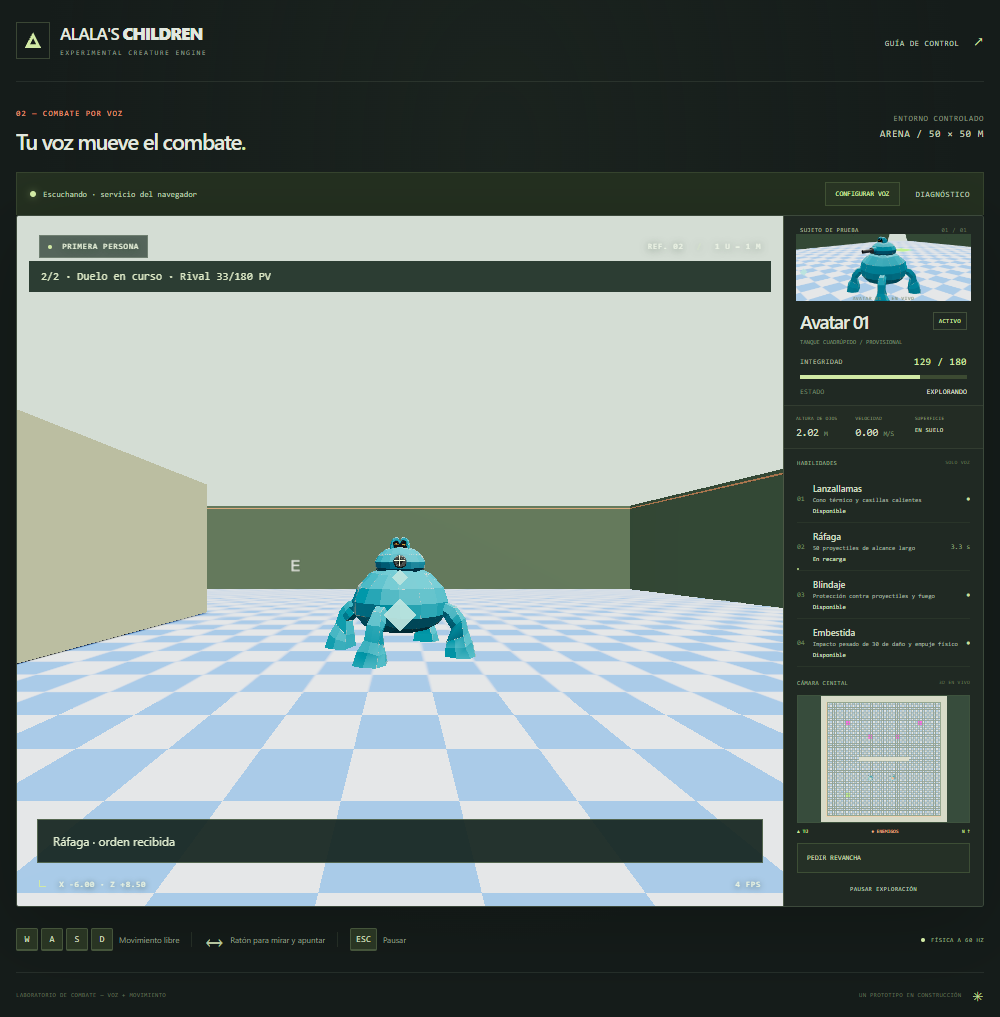
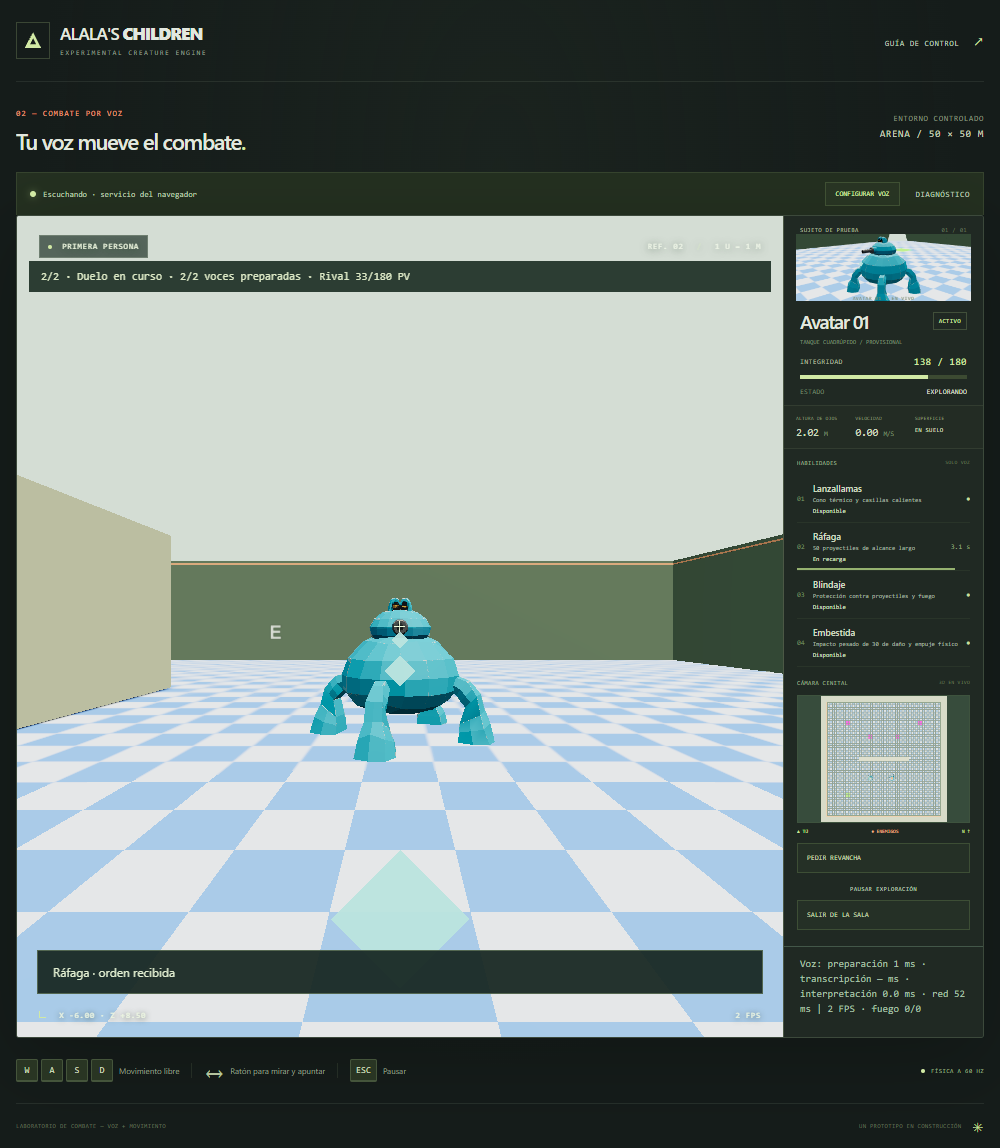
Estabiliza beta PvP: voz preparada, efectos reutilizables y revancha limpia

diff --git a/src/Game.ts b/src/Game.ts
@@ -41,7 +41,8 @@ export async function startCombatDemo(network?: PvpClient): Promise<void> {
   let opponent: CombatRuntime | undefined, opponentView: CombatView | undefined, opponentAnimation: TankAnimation | undefined;
   const spawn = network ? PVP_SPAWNS[network.index] : ARENA.spawn;
   const creature = network ? { ...THERMAL_TANK, id: `P${network.index+1}` } : THERMAL_TANK;
-  let animationFrame = 0, disposed = false, voiceWanted = false, calibrating = false;
+  let animationFrame = 0, disposed = false, voiceWanted = false, calibrating = false, assetsReady=false, micRequestedAt=0;
+  const preparePvp=():void=>{if(network&&assetsReady&&speechState==='listening')network.send({type:'prepared'});};
   const clock = new FixedStep(), fpsCamera = new FirstPersonCamera(THERMAL_TANK);
   const equipped = THERMAL_TANK.abilities.map(abilityById);
   let storage: Storage | undefined; try { storage = localStorage; } catch { /* Private mode can block storage. */ }
@@ -61,10 +62,17 @@ export async function startCombatDemo(network?: PvpClient): Promise<void> {
     : combat?.activate(id, requestId) ?? { accepted: false, reason: 'El motor está cargando.', abilityId: id, startedAt: null });
   const previous = new THREE.Vector3(spawn.x, spawn.y, spawn.z), current = previous.clone(), interpolated = previous.clone();
   const hud = new Hud(root, THERMAL_TANK, { enter: () => { void enter(); }, reset, pause: () => input?.unlock() });
+  const showPvpResult=():void=>{
+    const room=network?.state;if(room?.status!=='finished')return;
+    const label=room.winner==='draw'?'Empate':room.winner===creature.id?'Victoria':'Derrota';
+    document.querySelector('#entry-title')!.textContent=label;
+    document.querySelector('#entry-copy')!.textContent=`Ganador: ${room.winner??'empate'}. Solicita la revancha desde el panel lateral o sal de la sala.`;
+    const button=document.querySelector<HTMLButtonElement>('#enter')!;button.disabled=true;button.textContent='ESPERANDO REVANCHA';
+  };
   const combatHud = new CombatHud(root, THERMAL_TANK, {
     pause: () => input?.unlock(),
     volume: value => audioOutput.setVolume(value),
-    enable: () => { voiceWanted = true; calibrating = false; calibration.cancel(); startVoice(); },
+    enable: () => { voiceWanted = true;micRequestedAt=performance.now();calibrating = false; calibration.cancel(); startVoice(); },
     disable: () => { voiceWanted = false; calibrating = false; calibration.cancel(); speech.stop(); pipeline.clearPending(); },
     install: () => { void browserSpeech.installLocal(combatHud.settings().language).then(ok => hud.notify(ok ? 'Idioma local instalado. Puedes activarlo.' : 'No se pudo instalar el idioma.')).catch(error => hud.notify(String(error))); },
     trial: expected => {
@@ -86,7 +94,7 @@ export async function startCombatDemo(network?: PvpClient): Promise<void> {
   });
 
   for (const port of [browserSpeech, localSpeech]) {
-    port.onStatus = status => { if (speech === port) { speechState = status.state; combatHud.recognition(status); } };
+    port.onStatus = status => { if (speech === port) { speechState = status.state; combatHud.recognition(status);if(status.state==='listening'){const display=document.querySelector<HTMLElement>('#pvp-state');if(display&&micRequestedAt)display.dataset.micInitMs=String(Math.round(performance.now()-micRequestedAt));preparePvp();} } };
     port.onTranscript = transcript => {
       if (speech !== port) return;
       combatHud.preview(transcript.text);
@@ -103,6 +111,8 @@ export async function startCombatDemo(network?: PvpClient): Promise<void> {
   const announced = new Set<string>();
   pipeline.onRecord = record => {
     combatHud.record(record, pipeline.accepted, pipeline.rejected);
+    const display=document.querySelector<HTMLElement>('#pvp-state');
+    if(display){display.dataset.interpretationMs=record.interpretationMs.toFixed(1);if(record.speechStartedAt!==null)display.dataset.transcriptionMs=String(Math.round(record.transcriptReceivedAt-record.speechStartedAt));}
     if (record.status === 'accepted' && record.abilityId && !announced.has(record.id)) { announced.add(record.id); if (announced.size > 300) announced.delete(announced.values().next().value!); hud.notify(`${abilityById(record.abilityId).name} · orden recibida`); }
   };
   calibration.onTrial = trial => combatHud.trialResult(trial, calibration.trials.length);
@@ -121,6 +131,7 @@ export async function startCombatDemo(network?: PvpClient): Promise<void> {
 
   async function enter(): Promise<void> {
     if (!input || !motor) return;
+    if(network&&(!voiceWanted||speechState!=='listening')){hud.notify('Prepara VoiceAttack y espera a «Escuchando» antes de entrar al PvP.');return;}
     audioOutput.unlock(); flameAudio.prepare(); footsteps?.prepare(); landingAudio?.prepare();
     // A calibration utterance must never spill into live combat. Keep the loaded model,
     // but start a fresh input/recognizer session when crossing this boundary.
@@ -171,16 +182,25 @@ export async function startCombatDemo(network?: PvpClient): Promise<void> {
       const status=document.createElement('div');status.className='pvp-status';status.id='pvp-state';
       document.querySelector('.viewport')!.prepend(status);
       network.onNotice=message=>hud.notify(message);
+      network.onAck=(elapsedMs,accepted)=>{status.dataset.ackMs=String(elapsedMs);status.dataset.lastAckAccepted=String(accepted);};
       let previousStatus='';
       network.onState=room=>{
         status.dataset.status=room.status;status.dataset.round=String(room.round);
         status.dataset.health=String(room.actors[network.index].health);status.dataset.enemyHealth=String(room.actors[1-network.index].health);
         const label={waiting:'Esperando que ambos entren',playing:'Duelo en curso',finished:room.winner==='draw'?'Empate':room.winner===creature.id?'Victoria':'Derrota',disconnected:'Rival desconectado · partida detenida'}[room.status];
-        status.textContent=`${room.connected.filter(Boolean).length}/2 · ${label} · Rival ${Math.ceil(room.actors[1-network.index].health)}/180 PV`;
-        if(room.status==='finished' && previousStatus!=='finished'){input?.unlock();hud.notify(`${label}. Ambos pueden pedir revancha.`);}
+      status.textContent=`${room.connected.filter(Boolean).length}/2 · ${label} · ${room.prepared.filter(Boolean).length}/2 voces preparadas · Rival ${Math.ceil(room.actors[1-network.index].health)}/180 PV${room.status==='finished'?` · Ganador ${room.winner??'empate'} · Revancha ${room.rematch.filter(Boolean).length}/2`:''}`;
+        if(room.status==='finished' && previousStatus!=='finished'){
+          input?.unlock();hud.notify(`${label}. Ambos pueden pedir revancha.`);
+          showPvpResult();
+        }
+        if(room.status==='playing'&&previousStatus==='finished'){
+          const enterButton=document.querySelector<HTMLButtonElement>('#enter')!;enterButton.disabled=false;
+          hud.state(state.value);hud.notify('Nueva ronda preparada. Reactiva la voz y entra en la arena.');
+        }
         previousStatus=room.status;
       };
     }
+    if(network){const metrics=document.createElement('p');metrics.id='pvp-metrics';metrics.className='pvp-metrics';metrics.textContent='Voz: preparación — · transcripción — · interpretación — · red —';document.querySelector('.side-panel')!.append(metrics);const leave=document.createElement('button');leave.id='leave-room';leave.className='secondary-button';leave.textContent='SALIR DE LA SALA';document.querySelector('.panel-bottom')!.append(leave);leave.onclick=()=>{location.href='/';};}
     combat.onDefeated = () => { input?.unlock(); hud.notify('Sin integridad. Pulsa Reiniciar posición para preparar otra prueba.'); };
     const avatar = await createAvatarView(THERMAL_TANK); if (disposed) return;
     animation = new TankAnimation(avatar, THERMAL_TANK.movement.turnSpeed);
@@ -206,15 +226,16 @@ export async function startCombatDemo(network?: PvpClient): Promise<void> {
         if (motor) { previous.set(motor.feet.x, motor.feet.y, motor.feet.z); current.copy(previous); }
       } else { calibrating = false; calibration.cancel(); startVoice(); }
       hud.state(state.value);
+      if(!locked)showPvpResult();
     }, message => hud.notify(message));
-    hud.ready(); fpsCamera.update(motor.feet);
+    assetsReady=true;preparePvp();hud.ready(); fpsCamera.update(motor.feet);
     let last = performance.now(), uiTime = 0, fpsTime = 0, fpsFrames = 0, displayFps = 0, lastDraw = -Infinity;
     const render = (time: number): void => {
       if (disposed || !view || !physics || !motor || !input || !combat) return;
       const frame = Math.max(0, (time - last) / 1000); last = time; fpsTime += frame;
       if(network && opponent){
         const fresh=network.apply(frame,combat,opponent);
-        if(fresh){fpsCamera.yaw=network.state!.actors[network.index].input.yaw;fpsCamera.pitch=0;animation?.reset();opponentAnimation?.reset();landing?.reset();}
+        if(fresh){fpsCamera.yaw=network.state!.actors[network.index].input.yaw;fpsCamera.pitch=0;animation?.reset();opponentAnimation?.reset();landing?.reset();flameAudio.reset();combatCueAudio.reset();footsteps?.silence();landingAudio?.silence();clock.reset();previous.set(motor.feet.x,motor.feet.y,motor.feet.z);current.copy(previous);}
         network.input({...input.movement(),yaw:fpsCamera.yaw,pitch:fpsCamera.pitch,active:state.value==='playing'});
         const remote=network.state?.actors[1-network.index];
         if(remote)opponentAnimation?.update(Math.min(frame,.1),opponent.motor!.feet,{...remote.input,aimYaw:remote.input.yaw,velocity:remote.velocity,grounded:remote.grounded,
@@ -257,7 +278,7 @@ export async function startCombatDemo(network?: PvpClient): Promise<void> {
         animation?.update(Math.min(frame, 0.1), motor.feet, { velocity: { x: 0, y: 0, z: 0 }, forward: 0, right: 0,
           aimYaw: fpsCamera.yaw, grounded: true, suspended: false });
       }
-      if (state.value === 'playing' || state.value === 'ready' || time - lastDraw >= 250) {
+      if (state.value === 'playing' || state.value === 'ready' || time - lastDraw >= (network && network.state?.status==='finished' ? 50 : 250)) {
         combatView?.update(); opponentView?.update(); view.render(state.value === 'ready' ? view.overview : fpsCamera.camera);
         avatarPreview?.render(time);
         minimap?.render(time, motor.feet, fpsCamera.yaw); fpsFrames++; lastDraw = time;
@@ -265,7 +286,7 @@ export async function startCombatDemo(network?: PvpClient): Promise<void> {
       calibration.expire(time);
       flameAudio.sync(combat.abilities.active('flamethrower'), state.value === 'playing');
       combatCueAudio.sync(state.value === 'playing', combat.barrageShotsFired, combat.abilities.active('charge'), combat.abilities.elapsed('charge'), abilityById('charge').windup ?? 0, combat.impactCount);
-      if (time - uiTime > 100) { hud.telemetry(motor.feet, Math.hypot(motor.actualVelocity.x, motor.actualVelocity.z), motor.grounded, displayFps, fpsCamera.yaw); combatHud.update(combat); uiTime = time; }
+      if (time - uiTime > 100) { hud.telemetry(motor.feet, Math.hypot(motor.actualVelocity.x, motor.actualVelocity.z), motor.grounded, displayFps, fpsCamera.yaw); combatHud.update(combat);const metrics=document.querySelector<HTMLElement>('#pvp-state');if(metrics){metrics.dataset.frameMs=(frame*1000).toFixed(1);metrics.dataset.fps=String(Math.round(displayFps));metrics.dataset.flameParticles=String(combatView?.flameParticles??0);metrics.dataset.enemyFlameParticles=String(opponentView?.flameParticles??0);metrics.dataset.projectiles=String(combat.barrageProjectiles.length);metrics.dataset.enemyProjectiles=String(opponent?.barrageProjectiles.length??0);document.querySelector('#pvp-metrics')!.textContent=`Voz: preparación ${metrics.dataset.micInitMs??'—'} ms · transcripción ${metrics.dataset.transcriptionMs??'—'} ms · interpretación ${metrics.dataset.interpretationMs??'—'} ms · red ${metrics.dataset.ackMs??'—'} ms | ${Math.round(displayFps)} FPS · fuego ${metrics.dataset.flameParticles}/${metrics.dataset.enemyFlameParticles}`;}uiTime = time; }
       animationFrame = requestAnimationFrame(render);
     };
     animationFrame = requestAnimationFrame(render);

diff --git a/src/attacks/barrage/behavior.ts b/src/attacks/barrage/behavior.ts
@@ -13,6 +13,9 @@ const angle = (a: Vec3, b: Vec3): number => Math.acos(Math.max(-1, Math.min(1, d
 /** Deterministic fixed-step volley. Each shot has one immutable launch direction. */
 export function createBarrage(context: AttackContext): AttackBehavior {
   const projectiles: Projectile[] = [], impacts: ImpactView[] = [];
+  const freeProjectiles:Projectile[]=Array.from({length:BARRAGE.projectileCount!},()=>({position:{x:0,y:0,z:0},direction:{x:0,y:0,z:0},travelled:0,active:false}));
+  const freeImpacts:ImpactView[]=Array.from({length:BARRAGE.projectileCount!},()=>({position:{x:0,y:0,z:0},age:0}));
+  const release=():void=>{for(const shot of projectiles)freeProjectiles.push(shot);projectiles.length=0;for(const hit of impacts)freeImpacts.push(hit);impacts.length=0;};
   let shotsFired = 0, locked: string | null = null;
   const select = (origin: Vec3, direction: Vec3): TestTarget | null => {
     const valid = (target: TestTarget): boolean => {
@@ -37,12 +40,13 @@ export function createBarrage(context: AttackContext): AttackBehavior {
       const fraction = error > 1e-6 ? correction / error : 0;
       direction = unit({ x: aim.x * (1 - fraction) + desired.x * fraction, y: aim.y * (1 - fraction) + desired.y * fraction, z: aim.z * (1 - fraction) + desired.z * fraction });
     }
-    projectiles.push({ position: origin, direction, travelled: 0, active: true });
+    const shot=freeProjectiles.pop();
+    if(shot){shot.position.x=origin.x;shot.position.y=origin.y;shot.position.z=origin.z;shot.direction.x=direction.x;shot.direction.y=direction.y;shot.direction.z=direction.z;shot.travelled=0;shot.active=true;projectiles.push(shot);}
     shotsFired++;
   };
   return {
     get projectiles() { return projectiles; }, get impacts() { return impacts; }, get shotsFired() { return shotsFired; },
-    onActivate() { projectiles.length = 0; impacts.length = 0; shotsFired = 0; locked = null; },
+    onActivate() { release(); shotsFired = 0; locked = null; },
     afterPhysics(dt) {
       const activeTime = context.abilities.overlap(BARRAGE.id, dt);
       const elapsed = context.abilities.elapsed(BARRAGE.id);
@@ -64,15 +68,18 @@ export function createBarrage(context: AttackContext): AttackBehavior {
           const lateral = Math.hypot(dx - along * projectile.direction.x, dy - along * projectile.direction.y, dz - along * projectile.direction.z);
           if (lateral <= (target.radius ?? COMBAT.targetRadius) + 0.12) { hit = target; hitDistance = along; }
         }
-        projectile.position = { x: projectile.position.x + projectile.direction.x * hitDistance, y: projectile.position.y + projectile.direction.y * hitDistance, z: projectile.position.z + projectile.direction.z * hitDistance };
+        projectile.position.x += projectile.direction.x * hitDistance;projectile.position.y += projectile.direction.y * hitDistance;projectile.position.z += projectile.direction.z * hitDistance;
         projectile.travelled += hitDistance;
-        if (hit) { context.damageTarget(hit, BARRAGE.damage, 'projectile'); projectile.active = false; impacts.push({ position: { ...projectile.position }, age: 0 }); }
-        else if (hitWall || projectile.travelled >= BARRAGE.range - 1e-6) { projectile.active = false; impacts.push({ position: { ...projectile.position }, age: 0 }); }
+        if (hit || hitWall || projectile.travelled >= BARRAGE.range - 1e-6) {
+          if(hit)context.damageTarget(hit,BARRAGE.damage,'projectile');
+          projectile.active=false;
+          const flash=freeImpacts.pop();if(flash){flash.position.x=projectile.position.x;flash.position.y=projectile.position.y;flash.position.z=projectile.position.z;flash.age=0;impacts.push(flash);}
+        }
       }
       for (const impact of impacts) impact.age += dt;
-      for (let i = impacts.length - 1; i >= 0; i--) if (impacts[i].age > 0.18) impacts.splice(i, 1);
-      for (let i = projectiles.length - 1; i >= 0; i--) if (!projectiles[i].active) projectiles.splice(i, 1);
+      for (let i = impacts.length - 1; i >= 0; i--) if (impacts[i].age > 0.18) freeImpacts.push(impacts.splice(i, 1)[0]);
+      for (let i = projectiles.length - 1; i >= 0; i--) if (!projectiles[i].active) freeProjectiles.push(projectiles.splice(i, 1)[0]);
     },
-    reset() { projectiles.length = 0; impacts.length = 0; shotsFired = 0; locked = null; },
+    reset() { release(); shotsFired = 0; locked = null; },
   };
 }

diff --git a/tests/pvp.test.ts b/tests/pvp.test.ts
@@ -2,11 +2,11 @@ import { beforeAll, describe, expect, it } from 'vitest';
 import { initializePhysics } from '../src/physics/PhysicsWorld';
 import { Duel } from '../src/network/Duel';
 beforeAll(initializePhysics);
-function match():Duel{const duel=new Duel('test');duel.connected.fill(true);duel.select(0);duel.select(1);duel.enter(0);duel.enter(1);return duel;}
+function match():Duel{const duel=new Duel('test');duel.connected.fill(true);duel.select(0);duel.select(1);duel.prepare(0);duel.prepare(1);duel.enter(0);duel.enter(1);return duel;}
 const step=(duel:Duel,n:number)=>{for(let i=0;i<n;i++)duel.step(1/60);};
 describe('duelo autoritativo con las habilidades originales',()=>{
  it('exige selección y entrada de ambos, congela al desconectar y coordina revancha',()=>{
-  const d=new Duel('room');d.connected.fill(true);d.select(0);d.enter(0);expect(d.status).toBe('waiting');d.select(1);d.enter(1);expect(d.status).toBe('playing');
+  const d=new Duel('room');d.connected.fill(true);d.select(0);d.enter(0);expect(d.status).toBe('waiting');d.select(1);d.enter(1);expect(d.status).toBe('waiting');d.prepare(0);expect(d.status).toBe('waiting');d.prepare(1);expect(d.status).toBe('playing');
   step(d,30);const time=d.actors[0].abilities.time;d.connected[1]=false;step(d,30);expect(d.status).toBe('disconnected');expect(d.actors[0].abilities.time).toBe(time);
   d.connected[1]=true;d.actors[1].health=0;step(d,1);expect(d.winner).toBe('P1');d.vote(0);expect(d.status).toBe('finished');d.vote(1);expect(d.status).toBe('playing');expect(d.actors[1].health).toBe(180);expect(d.round).toBe(2);d.dispose();
  });
@@ -25,5 +25,22 @@ describe('duelo autoritativo con las habilidades originales',()=>{
  });
  it('Embestida causa daño y transfiere impulso entre dos tanques de 500 kg',()=>{
   const d=match();step(d,20);d.attack(0,'charge','impact');step(d,220);expect(d.actors[1].health).toBe(150);expect(d.actors[0].impactCount).toBe(1);expect(d.actors[1].motor!.feet.x).toBeGreaterThan(6.5);d.dispose();
+ });
+ it('dos Lanzallamas simultáneos y varias rondas limpian calor, recargas y proyectiles',()=>{
+  const d=match();
+  expect(d.attack(0,'flamethrower','fire-1').accepted).toBe(true);
+  expect(d.attack(1,'flamethrower','fire-2').accepted).toBe(true);
+  step(d,40);
+  expect(d.snapshot().actors.every(actor=>actor.heat.length>0)).toBe(true);
+  d.actors[1].health=0;step(d,1);
+  expect(d.status).toBe('finished');
+  expect(d.snapshot().actors.every(actor=>actor.heat.length===0&&actor.projectiles.length===0)).toBe(true);
+  const time=d.actors[0].abilities.time;step(d,90);expect(d.actors[0].abilities.time).toBe(time);
+  d.vote(0);d.vote(1);
+  expect(d.round).toBe(2);expect(d.snapshot().actors.every(actor=>actor.health===180&&actor.heat.length===0)).toBe(true);
+  expect(d.attack(0,'barrage','round-2').accepted).toBe(true);step(d,10);
+  d.actors[0].health=0;step(d,1);d.vote(0);d.vote(1);
+  expect(d.round).toBe(3);expect(d.snapshot().actors.every(actor=>actor.projectiles.length===0&&actor.shots===0)).toBe(true);
+  d.dispose();
  });
 });

diff --git a/src/network/Duel.ts b/src/network/Duel.ts
@@ -11,7 +11,7 @@ export class Duel {
   readonly physics: PhysicsWorld;
   readonly actors: CombatRuntime[];
   readonly inputs: PlayerCommand[] = PVP_YAWS.map(yaw=>({forward:0,right:0,yaw,pitch:0,active:false}));
-  readonly connected = [false,false]; readonly ready = [false,false]; readonly rematch = [false,false];
+  readonly connected = [false,false]; readonly ready = [false,false]; readonly prepared = [false,false]; readonly rematch = [false,false];
   readonly entered = [false,false];
   winner: string|null = null; round = 0;
   constructor(readonly id: string) {
@@ -39,7 +39,9 @@ export class Duel {
     }
   }
   select(index:number): void { this.ready[index]=true; }
-  enter(index:number): void { this.entered[index]=true; if(!this.round && this.ready.every(Boolean) && this.entered.every(Boolean) && this.connected.every(Boolean))this.begin(); }
+  prepare(index:number): void { this.prepared[index]=true;this.tryBegin(); }
+  enter(index:number): void { this.entered[index]=true;this.tryBegin(); }
+  private tryBegin():void {if(!this.round&&this.ready.every(Boolean)&&this.prepared.every(Boolean)&&this.entered.every(Boolean)&&this.connected.every(Boolean))this.begin();}
   vote(index:number): void { if(!this.winner)return;this.rematch[index]=true;if(this.rematch.every(Boolean)&&this.connected.every(Boolean))this.begin(); }
   attack(index:number,id:AbilityId,request:string) {
     if(this.status!=='playing'||!this.inputs[index].active)return {accepted:false,reason:'La partida no está activa.',abilityId:id,startedAt:null};
@@ -65,10 +67,10 @@ export class Duel {
     }
     for(let i=0;i<2;i++){const actor=this.actors[i];actor.aim(actor.motor!.feet,this.inputs[i].yaw,this.inputs[i].pitch);actor.afterPhysics(dt);}
     const dead=this.actors.map(a=>a.health<=0);
-    if(dead.some(Boolean)){this.winner=dead.every(Boolean)?'draw':this.actors[dead[0]?1:0].definition.id;this.actors.forEach(a=>a.setEnabled(false));}
+    if(dead.some(Boolean)&&this.winner===null){this.winner=dead.every(Boolean)?'draw':this.actors[dead[0]?1:0].definition.id;this.actors.forEach(a=>a.finishRound());}
   }
   snapshot(): RoomState {
-    return {type:'state',room:this.id,status:this.status,winner:this.winner,round:this.round,connected:[...this.connected],ready:[...this.ready],
+    return {type:'state',room:this.id,status:this.status,winner:this.winner,round:this.round,connected:[...this.connected],ready:[...this.ready],prepared:[...this.prepared],rematch:[...this.rematch],
       actors:this.actors.map((actor,i)=>({id:actor.definition.id,feet:actor.motor!.feet,velocity:actor.motor!.actualVelocity,grounded:actor.motor!.grounded,health:actor.health,input:{...this.inputs[i]},
         abilities:actor.abilities.networkState(),heat:Array.from(actor.heat.tiles.values()),projectiles:[...actor.barrageProjectiles],impacts:[...actor.barrageImpacts],shots:actor.barrageShotsFired,
         impactCount:actor.impactCount,lastImpactAt:Number.isFinite(actor.lastImpactAt)?actor.lastImpactAt:null,lastImpact:actor.lastImpact}))};

diff --git a/src/network/PvpClient.ts b/src/network/PvpClient.ts
@@ -7,6 +7,8 @@ export class PvpClient {
   index = -1;
   state?: RoomState;
   latency = 0;
+  lastAckMs: number|null = null;
+  onAck: (elapsedMs:number,accepted:boolean) => void = () => {};
   onState: (state: RoomState) => void = () => {};
   onNotice: (message: string) => void = () => {};
   private socket?: WebSocket;
@@ -16,6 +18,7 @@ export class PvpClient {
   private retry?: ReturnType<typeof setTimeout>;
   private ping?: ReturnType<typeof setInterval>;
   private readonly requests = new Set<string>();
+  private readonly sentAt = new Map<string,number>();
   private initializedRound = -1;
   constructor(readonly room: string) { try { this.token = sessionStorage.getItem('alalas-room-'+room) ?? ''; } catch { /* Private mode */ } }
   async connect(): Promise<void> {
@@ -35,7 +38,11 @@ export class PvpClient {
           if(this.ping)clearInterval(this.ping);
           this.ping=setInterval(()=>this.send({type:'ping',at:performance.now()}),5000);resolve();
         }else if(message.type==='state'){this.state=message;this.onState(message);}
-        else if(message.type==='ack'&&!message.accepted)this.onNotice(message.reason);
+        else if(message.type==='ack'){
+          const sent=this.sentAt.get(message.request);this.sentAt.delete(message.request);
+          if(sent!==undefined){this.lastAckMs=Math.round(performance.now()-sent);this.onAck(this.lastAckMs,message.accepted===true);}
+          if(!message.accepted)this.onNotice(message.reason);
+        }
         else if(message.type==='pong')this.latency=Math.round(performance.now()-message.at);
       };
       ws.onerror=()=>{if(!welcomed)reject(new Error('No se pudo conectar al servidor PvP. Abre JUGAR.cmd o verifica el enlace.'));};
@@ -59,6 +66,7 @@ export class PvpClient {
     if(!this.connected||this.state?.status!=='playing')return reject('La sala todavía no está combatiendo.');
     if(this.requests.has(requestId))return reject('Transcripción ya procesada.');
     this.requests.add(requestId);if(this.requests.size>512)this.requests.delete(this.requests.values().next().value!);
+    this.sentAt.set(requestId,performance.now());if(this.sentAt.size>512)this.sentAt.delete(this.sentAt.keys().next().value!);
     this.send({type:'attack',id,request:requestId.slice(0,80)});
     return {accepted:true,reason:'Orden enviada al servidor; pendiente de validación.',abilityId:id,startedAt:null};
   }

diff --git a/src/style.css b/src/style.css
@@ -4,3 +4,4 @@
 
 .combat-build .avatar-preview #avatar-live{display:block;width:100%;height:100%;object-fit:cover}.combat-build .avatar-preview .preview-tag{z-index:2;pointer-events:none}
 .start-menu{max-width:1000px;margin:9vh auto;padding:30px;color:#dce8c5}.start-menu h1{font-size:clamp(36px,5vw,64px);letter-spacing:-.05em}.start-menu p{line-height:1.6;color:#9eb392}.mode-cards{display:grid;grid-template-columns:1fr 1fr;gap:20px;margin:45px 0}.mode-card,.creature-choice{display:flex;flex-direction:column;gap:14px;padding:28px;background:#25352a;border:1px solid #6a8553;color:inherit;text-decoration:none;text-align:left;font:inherit;cursor:pointer}.mode-card b{font-size:24px}.mode-card span{font-size:14px;color:#a6bb98}.mode-card:hover{background:#35472f}.mode-card:disabled{opacity:.6}.invite{display:flex;gap:12px;margin:20px 0}.invite input{flex:1;min-width:0;padding:13px;color:#dce8c5;background:#17241c;border:1px solid #6a8553}.invite button{width:auto;padding:0 20px}.creature-choice{margin:20px 0;max-width:500px}.creature-choice small{line-height:1.8;color:#bbcf9e}#lobby{border-top:1px solid #5e7451;padding-top:25px}#menu-error{color:#ffbc99}.pvp-status{position:absolute;z-index:9;top:45px;left:12px;right:12px;padding:9px 12px;background:#15271de0;color:#dce8c5;font:11px var(--mono);pointer-events:none}@media(max-width:650px){.mode-cards{grid-template-columns:1fr}.invite{flex-direction:column}}
+.pvp-metrics{padding:10px 16px;color:#a8c1a9;font:10px/1.5 monospace;border-top:1px solid #435749;overflow-wrap:anywhere}

diff --git a/src/combat/HeatField.ts b/src/combat/HeatField.ts
@@ -20,12 +20,18 @@ export class HeatField {
 
   expose(origin: Vec3, direction: Vec3, range: number, halfAngle: number, boxes: readonly StaticBox[]): void {
     const radius = this.tileSize * Math.SQRT2 / 2;
-    for (let row = 0; row < this.count; row++) for (let column = 0; column < this.count; column++) {
+    const lowX=Math.max(0,Math.floor((origin.x-range-radius+this.half)/this.tileSize));
+    const highX=Math.min(this.count-1,Math.floor((origin.x+range+radius+this.half)/this.tileSize));
+    const lowZ=Math.max(0,Math.floor((origin.z-range-radius+this.half)/this.tileSize));
+    const highZ=Math.min(this.count-1,Math.floor((origin.z+range+radius+this.half)/this.tileSize));
+    for (let row = lowZ; row <= highZ; row++) for (let column = lowX; column <= highX; column++) {
       const x = -this.half + (column + 0.5) * this.tileSize, z = -this.half + (row + 0.5) * this.tileSize;
       const surface = { x, y: ARENA.floorTop + 0.01, z };
       if (!inFlameVolume(origin, direction, surface, radius, range, halfAngle) || !lineClear(origin, surface, boxes)) continue;
       const id = row * this.count + column;
-      this.tiles.set(id, { id, x, z, remaining: FLAMETHROWER.heatDuration! });
+      const existing=this.tiles.get(id);
+      if(existing)existing.remaining=FLAMETHROWER.heatDuration!;
+      else this.tiles.set(id, { id, x, z, remaining: FLAMETHROWER.heatDuration! });
     }
   }
 

diff --git a/src/combat/CombatRuntime.ts b/src/combat/CombatRuntime.ts
@@ -187,8 +187,9 @@ export class CombatRuntime {
     let multiplier = 1;
     for (const attack of this.attacks.values()) multiplier *= attack.damageMultiplier?.(types) ?? 1;
     this.lastDamage = Math.max(0, amount) * multiplier;
+    const beforeHealth=this.health;
     this.health = Math.max(0, this.health - this.lastDamage);
-    if (this.health === 0) { this.abilities.enabled = false; this.onDefeated(); }
+    if (this.health === 0 && beforeHealth > 0) { this.abilities.enabled = false; this.onDefeated(); }
     return this.lastDamage;
   }
 
@@ -198,5 +199,6 @@ export class CombatRuntime {
     for (const attack of this.attacks.values()) attack.reset?.();
     for (const target of this.targets) { target.motor.reset(target.spawn); target.controller.reset(); target.health = target.maximum; target.massKg = target.spec.massKg; target.motor.massKg = target.spec.massKg; target.lastDamage = 0; target.lastImpulse = 0; target.lastDeltaV = 0; target.projectileHits = 0; }
   }
+  finishRound():void{this.abilities.reset();this.abilities.enabled=false;this.heat.reset();this.enemyProjectiles.reset();for(const attack of this.attacks.values())attack.reset?.();}
   dispose(): void { if (!this.opponent) this.targets.forEach(target => target.motor.dispose()); }
 }

diff --git a/tests/pvp.e2e.ts b/tests/pvp.e2e.ts
@@ -48,6 +48,8 @@ test('dos clientes invitan, eligen Avatar 01 y combaten por voz con salud consis
   await expect(b.locator('#ability-barrage')).toHaveAttribute('data-state','ready',{timeout:15000});
   await b.evaluate(()=>{(window as unknown as {__say:(s:string)=>void}).__say('ráfaga');});
   await expect(b.locator('#pvp-state')).toContainText('Victoria');await expect(a.locator('#pvp-state')).toContainText('Derrota');
+  await expect(b.locator('#entry-title')).toHaveText('Victoria');await expect(a.locator('#entry-title')).toHaveText('Derrota');
+  await expect(b.locator('#enter')).toBeDisabled();await expect(a.locator('#enter')).toBeDisabled();
   await a.getByRole('button',{name:'PEDIR REVANCHA'}).click();await b.getByRole('button',{name:'PEDIR REVANCHA'}).click();
   await expect(a.locator('#pvp-state')).toHaveAttribute('data-round','2');await expect(b.locator('#pvp-state')).toHaveAttribute('data-round','2');
   expect(await hp(a)).toBe(180);expect(await hp(b)).toBe(180);

diff --git a/src/network/server.ts b/src/network/server.ts
@@ -64,6 +64,7 @@ server.on('upgrade',(req,socket,head)=>{
         room.duel.inputs[index]={forward:Math.max(-1,Math.min(1,m.forward)),right:Math.max(-1,Math.min(1,m.right)),yaw:Math.atan2(Math.sin(m.yaw),Math.cos(m.yaw)),pitch:Math.max(-1.4,Math.min(1.4,m.pitch)),active:m.active===true};
         room.lastInput[index]=now;
       }else if(m.type==='select'&&m.creature==='avatar-01'&&room.duel.connected.every(Boolean))room.duel.select(index);
+      else if(m.type==='prepared'&&room.duel.ready[index])room.duel.prepare(index);
       else if(m.type==='enter')room.duel.enter(index);
       else if(m.type==='rematch')room.duel.vote(index);
       else if(m.type==='attack'&&['flamethrower','barrage','armor','charge'].includes(m.id)&&typeof m.request==='string'&&m.request.length<=80){

diff --git a/src/network/protocol.ts b/src/network/protocol.ts
@@ -12,4 +12,4 @@ export interface ActorState {
   projectiles: ProjectileView[]; impacts: ImpactView[]; shots: number;
   impactCount: number; lastImpactAt: number | null; lastImpact: ImpactDiagnostic | null;
 }
-export interface RoomState { type: 'state'; room: string; status: 'waiting'|'playing'|'finished'|'disconnected'; winner: string|null; round: number; actors: ActorState[]; connected: boolean[]; ready: boolean[] }
+export interface RoomState { type: 'state'; room: string; status: 'waiting'|'playing'|'finished'|'disconnected'; winner: string|null; round: number; actors: ActorState[]; connected: boolean[]; ready: boolean[]; prepared: boolean[]; rematch: boolean[] }

diff --git a/src/attacks/flamethrower/FlameView.ts b/src/attacks/flamethrower/FlameView.ts
@@ -44,6 +44,6 @@ export class FlameView {
       color.toArray(this.colors, index * 3); this.opacity[index++] = p.alpha;
     }
     this.mesh.count = index; this.mesh.visible = index > 0;
-    this.mesh.instanceMatrix.needsUpdate = true; this.mesh.geometry.getAttribute('flameColor').needsUpdate = true; this.mesh.geometry.getAttribute('flameOpacity').needsUpdate = true;
+    if(index>0){this.mesh.instanceMatrix.needsUpdate = true; this.mesh.geometry.getAttribute('flameColor').needsUpdate = true; this.mesh.geometry.getAttribute('flameOpacity').needsUpdate = true;}
   }
 }
